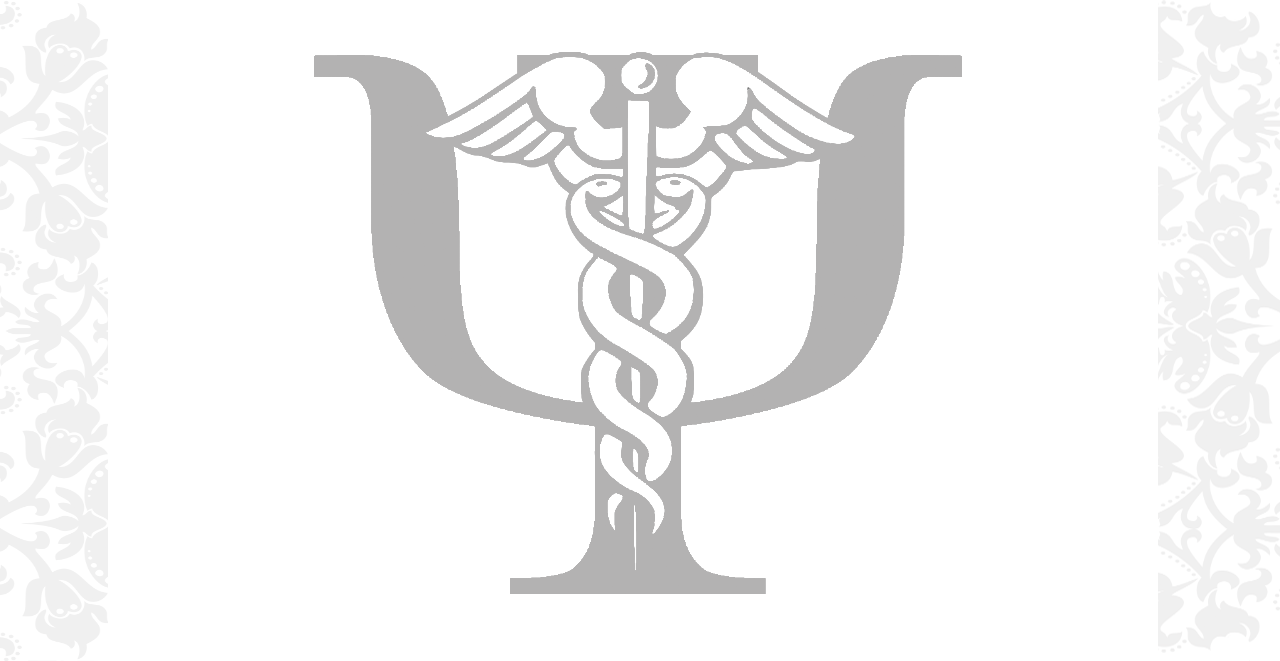
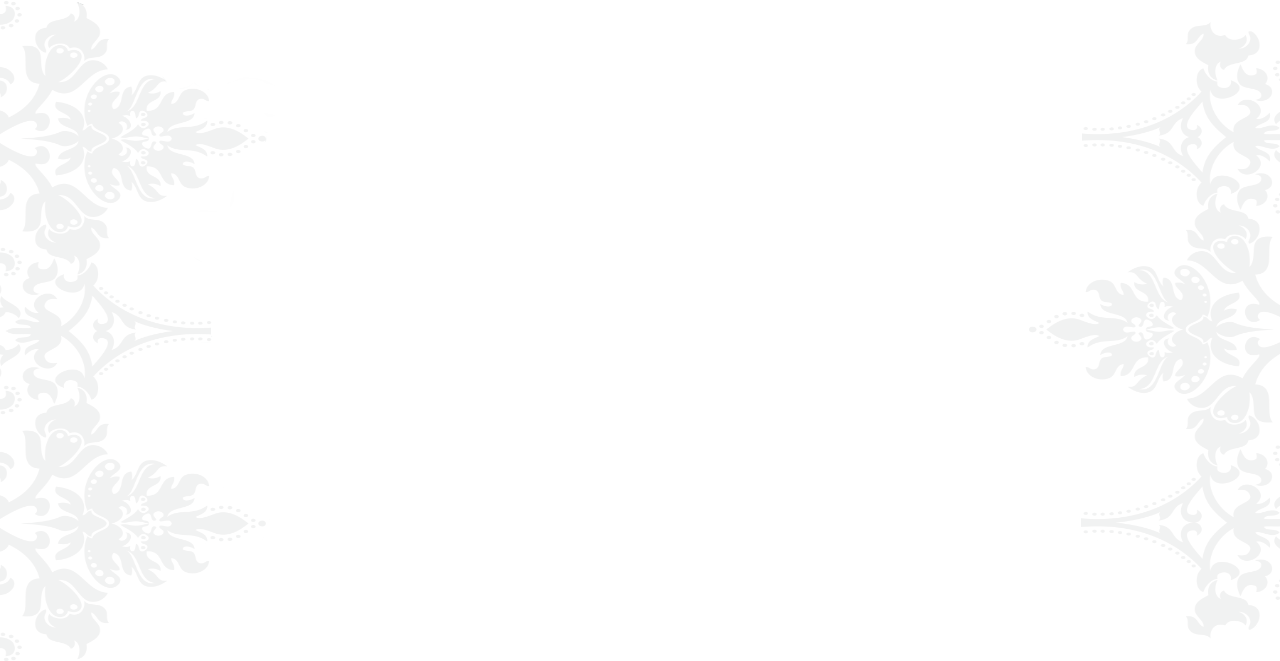
Cambios estéticos varios: borde negro, fondo, etc...

Changed region(s): [[0.2188, 0.0605, 0.75, 0.9077]]

diff --git a/Views/Main.html b/Views/Main.html
@@ -50,16 +50,16 @@
 
     <!-- START VIEW -->    
     <div id="ContenedorPrincipal" class="col-md-10">       
-       <div id="MarcoLateral" class="col-md-3"> 
+       <div id="MarcoLateral" class="col-md-5"> 
             <img src="../Content/Images/Other/FotoPerfil.png" class="img-rounded" id="Foto"/>
             <label>Lic. Perez, Juan</label><br>
-            <p> Especialista en:... </p>
-            <p class="col-md-1"> MN: 123456</p> <p class="col-md-1"> MP: 123456</p><br><br>
-            <p> Av. de Mayo 123, CABA </p>
+            <p> <span>Especialista en:</span> <em>Niños y Adolescentes</em> </p>
+            <p class="col-md-1" id="MN"> <span>MN:</span> <em>123456</em> </p> <p class="col-md-1" id="MP"> <span>MP:</span> <em>123456</em> </p> <br><br>
+            <p> <em>Av. de Mayo 123, CABA</em> </p>
         </div><br>
-        <div id="Secciones"  class="col-md-7">
+        <div id="Secciones"  class="col-md-5">
             <a href="#"><p><span class="glyphicon glyphicon-folder-open">&nbsp;</span> Historia Clínica </p></a>
-            <a href="#"><p><span class="glyphicon glyphicon-list-alt">&nbsp;</span> Evolucion </p></a>
+            <a href="#"><p><span class="glyphicon glyphicon-list-alt">&nbsp;</span> Evolución </p></a>
             <div id="EnConstruccion">
                 <p><span class="glyphicon glyphicon-thumbs-up">&nbsp;</span> Seguimiento </p>
                 <p><span class="glyphicon glyphicon-save-file">&nbsp;</span> Informes </p>

diff --git a/Content/PositionCss/PositionMain.css b/Content/PositionCss/PositionMain.css
@@ -1,20 +1,22 @@
 #ContenedorPrincipal
 {
-    margin-left:8.33vw;
-    margin-right:8.33vw;
-    margin-top:12.2541vh;
-    margin-bottom:12.2541vh;
+    margin-left:8.33vw !important;
+    margin-right:8.33vw !important;
+    margin-top: 10.8926vh;
+    margin-bottom: 10.8926vh;
     padding: 0 !important;
 }
 
 #MarcoLateral
 {
-    padding: 0 !important;
+    padding-left: 16.66vw !important;
+    padding-right: 0 !important;
 }
 
 #Secciones
 {
-    padding: 0 !important;
+    /*padding-left: 8.33vw !important;*/
+    padding-right: 7.5481vw !important;
 }
 
 nav
@@ -22,18 +24,27 @@ nav
     margin: 0 !important;
 }
 
+#Foto
+{
+    margin-left: 6.8714vw;
+    margin-right: 6.8714vw;
+}
+
 #MarcoLateral p
 {
     padding:0!important;
 }
 
-#MarcoLateral>p:nth-child(2)
+#MN
 {
-    display:inline-block;
+    display:block;
+    margin-left: 2.0831vw !important;
+    margin-right: 2.0831vw !important;
 }
 
-#MarcoLateral>p:nth-child(3)
+#MP
 {
-    padding-left:8.33vw !important;
-    display:inline-block;
+    margin-left: 2.0831vw !important;
+    margin-right: 2.0831vw !important;
+    display:block;
 }

diff --git a/Content/StyleCss/StyleProfesional.css b/Content/StyleCss/StyleProfesional.css
@@ -1,10 +1,10 @@
 body
 {
-    background-image: url("../Images/Layout/FondoPsi.png");
-    background-size: 35% 70%;
+    background-image: url("../Images/Layout/Trama.png");
+    background-size: 100%;
     background-repeat: no-repeat;
     background-position: center;
-    background-color: #D3D3D3;
+    background-color: #364010;
     width:1280px;
     height:661px;
 }
@@ -14,7 +14,10 @@ body
 form /* Fondo Transparente */
 {
     background-color: rgba(255, 255, 255, 0.7);
-    height: auto;   
+    height: auto;
+    border-top: 1.5vh double black;
+    border-bottom: 1.5vh double black;   
+    border-radius:20px;
 }
 
 input /*Estilo de los input */
@@ -91,13 +94,19 @@ input /*Estilo de los input */
 }
 
 /* ESTILOS ESPECÍFICOS EN ORDEN DE APARICIÓN */
+h3
+{
+    font-weight:500;
+    font-size: 24px !important;
+    color: #fff;            
+}
 
 h1
 {
-    font-weight:600;
-    font-size: 34px !important;            
+    font-weight:500;
+    font-size: 36px !important;            
+    color: #fff;
 }
-
 
 select /* Corresponde al Título Obtenido Lic., Mg. o Dr. */
 {

diff --git a/Content/StyleCss/StyleMain.css b/Content/StyleCss/StyleMain.css
@@ -1,8 +1,20 @@
 body
 {
+    background-image: url("../Images/Layout/TramaLaterales.png");
+    background-size: 100%;
+    background-repeat: no-repeat;
+    background-position: center;
+    background-color: #693312;
     width:1280px;
     height:661px;
-    background-color: #C9A673;
+}
+
+#ContenedorPrincipal
+{
+    border-top: 1.5vh double black;
+    border-bottom: 1.5vh double black;  
+    background-color: rgba(255, 255, 255, 0.5);
+    border-radius: 20px;
 }
 
 #Foto
@@ -19,12 +31,13 @@ body
 
 #EnConstruccion
 {
-    color: #D9D9D9;
+    color: #fff;
 }
 
 #MarcoLateral
 {
     text-align:center;
+    color:rgb(51,51,51);
 }
 
 #MarcoLateral p
@@ -38,18 +51,31 @@ img
 }
 a:link   
 {   
- text-decoration:none;
+    text-decoration:none;
 }  
 
 a
 {
-    color: rgb(51,51,51);
+    color:rgb(51,51,51)
+}
+
+a:focus
+{
+    color:rgb(51,51,51)
 }
 
 a:hover
 {
-    color:#006443;
+    color:#00f545;
 }
+
+#MarcoLateral span
+{
+    font-weight:bold;
+}
+
+
+
 /*Medidas de col para sobreescribir width:100vw de .form-control. body = 1280vw*/
 *[class~="col-md-1"]
 {

diff --git a/Content/StyleCss/StyleLogin.css b/Content/StyleCss/StyleLogin.css
@@ -4,7 +4,6 @@ body
     background-size: 100%;
     background-repeat: no-repeat;
     background-position: center;
-    /*background-color: #D3D3D3;*/
     background-color: #364010;
     width:1280px;
     height:661px;
@@ -18,10 +17,12 @@ h1
 /* Marco Doble Linea Negra */
 body>form>div 
 {
-    border: 1.5vh double black;
+    border-top: 1.5vh double black;
+    border-bottom: 1.5vh double black;   
     height:50vh;
     text-align: center;
     background-color: rgba(255, 255, 255, 0.7);
+    border-radius:20px;
 }
 
 /* Estilo General */

diff --git a/Views/Landing.html b/Views/Landing.html
@@ -21,8 +21,8 @@
     </div>
         <br><br>
     <div id="ContenidoPrincipal" class="col-md-10">
-        <h1>PsicoLOG</h1>
         <br>
+        <h1>PsicoLOG</h1>
         <div id="Caracteristicas">
             <h3>La Aplicación que todo Psicólogo necesita</h3> 
             <em><p><span class="glyphicon glyphicon-folder-open">&nbsp;</span>Mantiene organizadas las Historias Clínicas de los Pacientes</p>

diff --git a/Content/PositionCss/PositionProfesional.css b/Content/PositionCss/PositionProfesional.css
@@ -10,11 +10,18 @@ h3
     margin-bottom: 0 !important;
 }
 
+h1
+{
+    margin-top: 3.7029vh;
+    margin-bottom:1.5129vh !important;
+}
 
 form /* Centra el Formulario Verticalmente */
 {
-    margin-top: 5.8933vh;
-    margin-bottom: 5.8933vh;
+    
+    margin-bottom: 5.2158vh;
+    padding-top: 1.5129vh;
+    padding-bottom: 1.5129vh;
 }
 
 form>div

diff --git a/Content/StyleCss/StyleLanding.css b/Content/StyleCss/StyleLanding.css
@@ -58,10 +58,12 @@ h1
 /* Marco Doble Linea Negra */
 #Caracteristicas
 {
-    border: 1.5vh double black;
+    border-top: 1.5vh double black;
+    border-bottom: 1.5vh double black;  
     text-align: center;
     background-color: rgba(255, 255, 255, 0.7);
     color:rgb(51,51,51);
+    border-radius:20px;
 }
 
 

diff --git a/Views/Profesional.html b/Views/Profesional.html
@@ -11,7 +11,7 @@
     <!-- START VIEW -->    
     <div id="Encabezado">
         <h3>PsicoLOG</h3>
-        <h1>Crea tu Cuenta Profesional</h1>
+        <h1>Crea tu cuenta profesional</h1>
     </div>
     <form action="#" method="POST">
         <div class="form-group">
